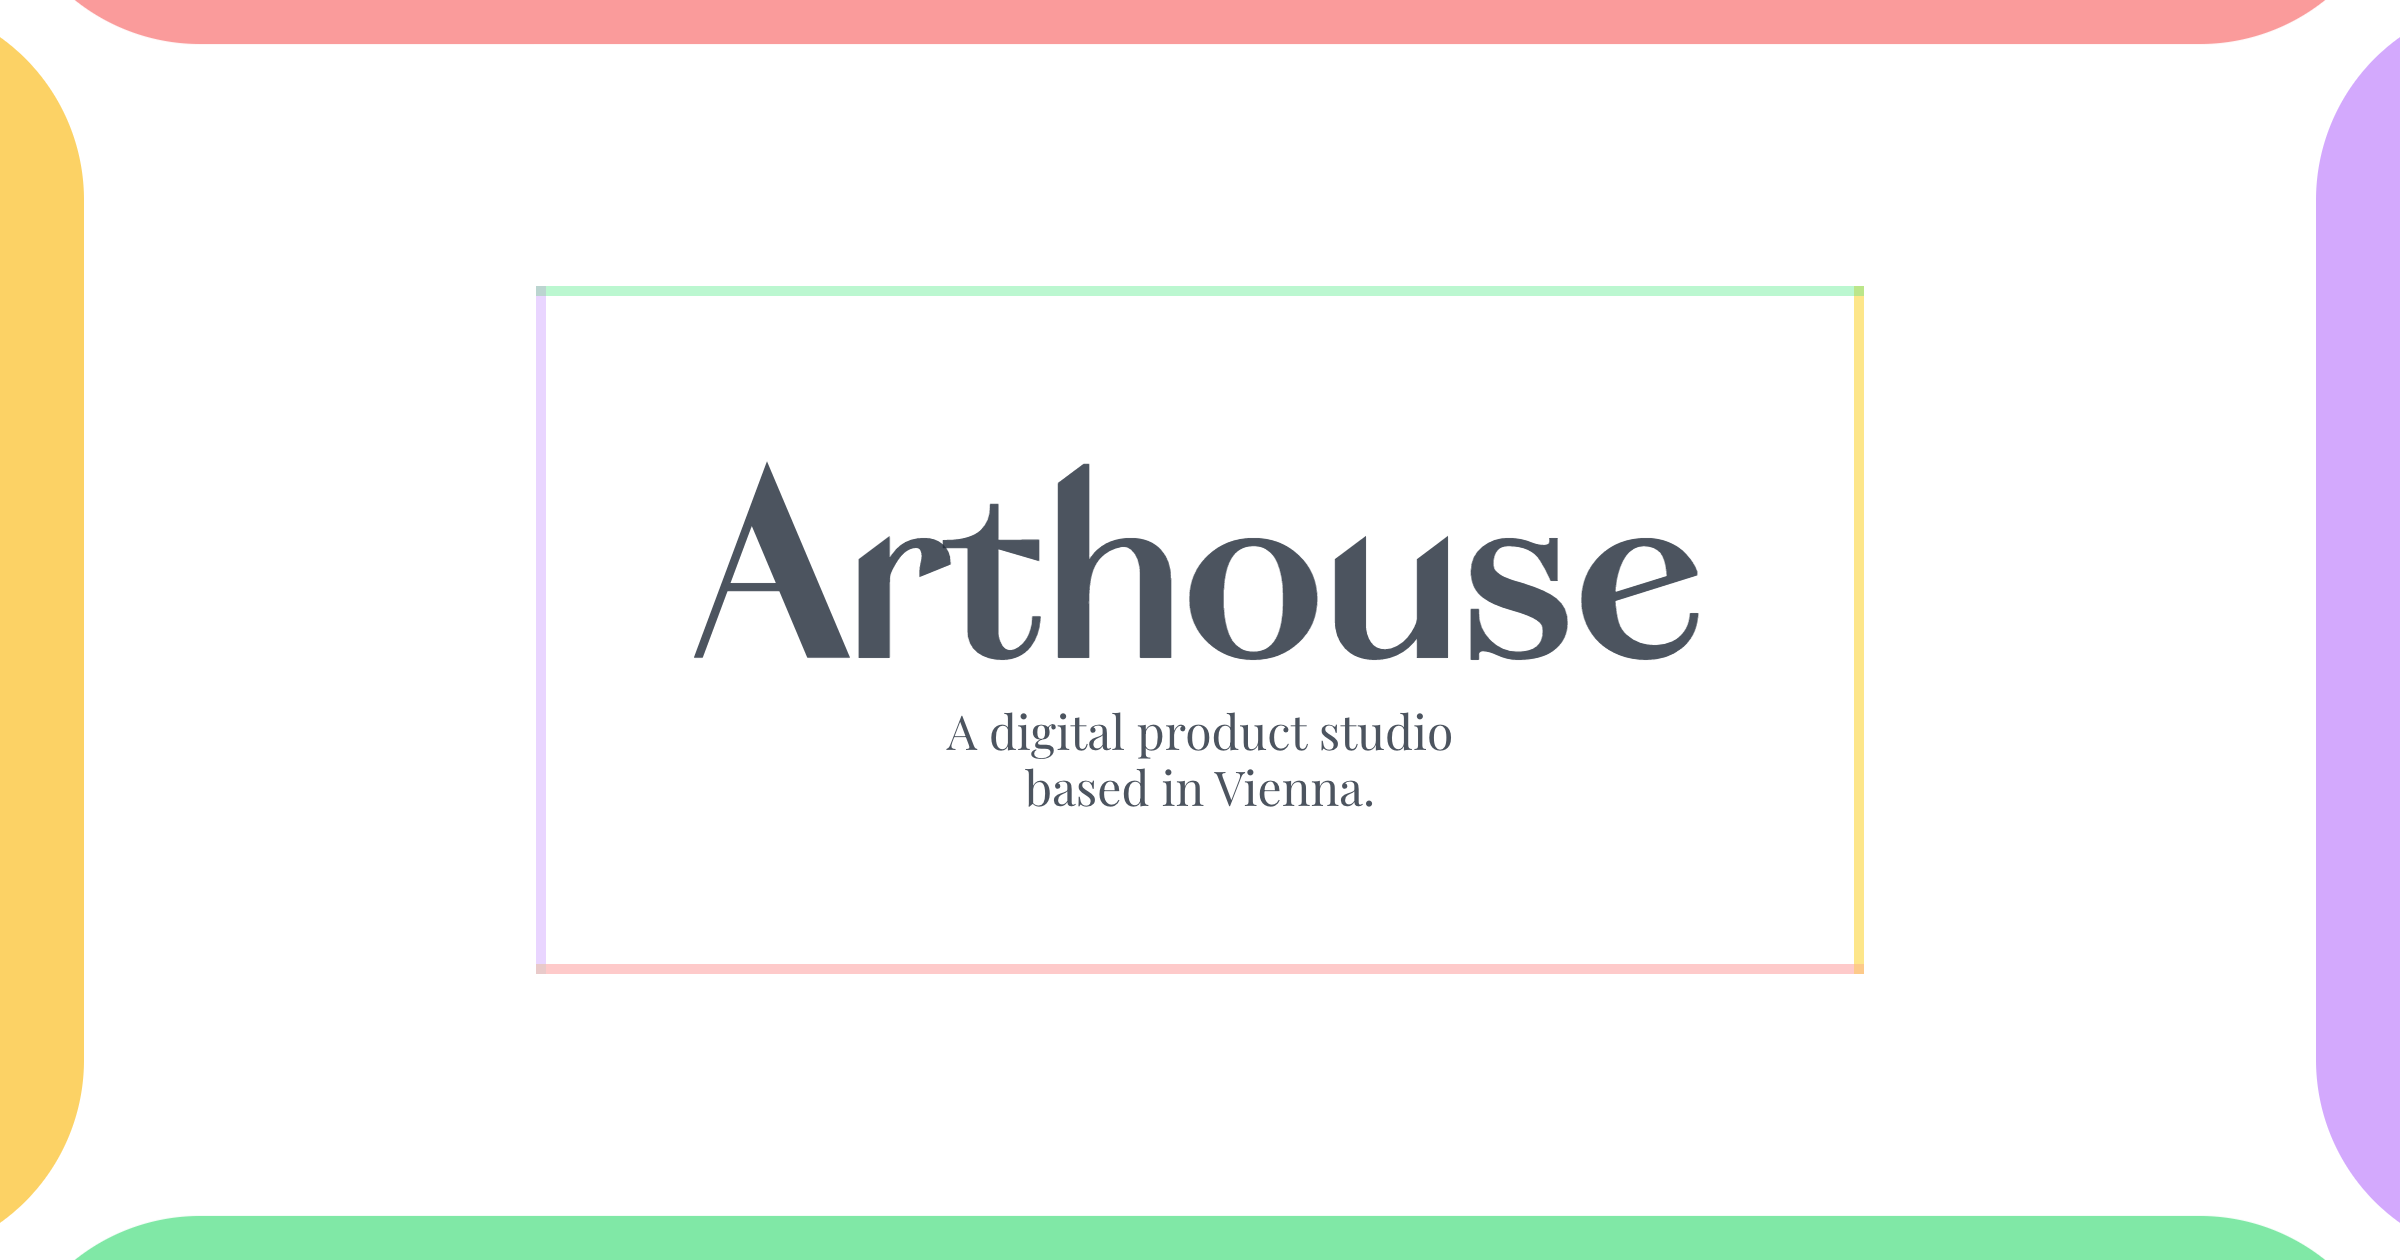
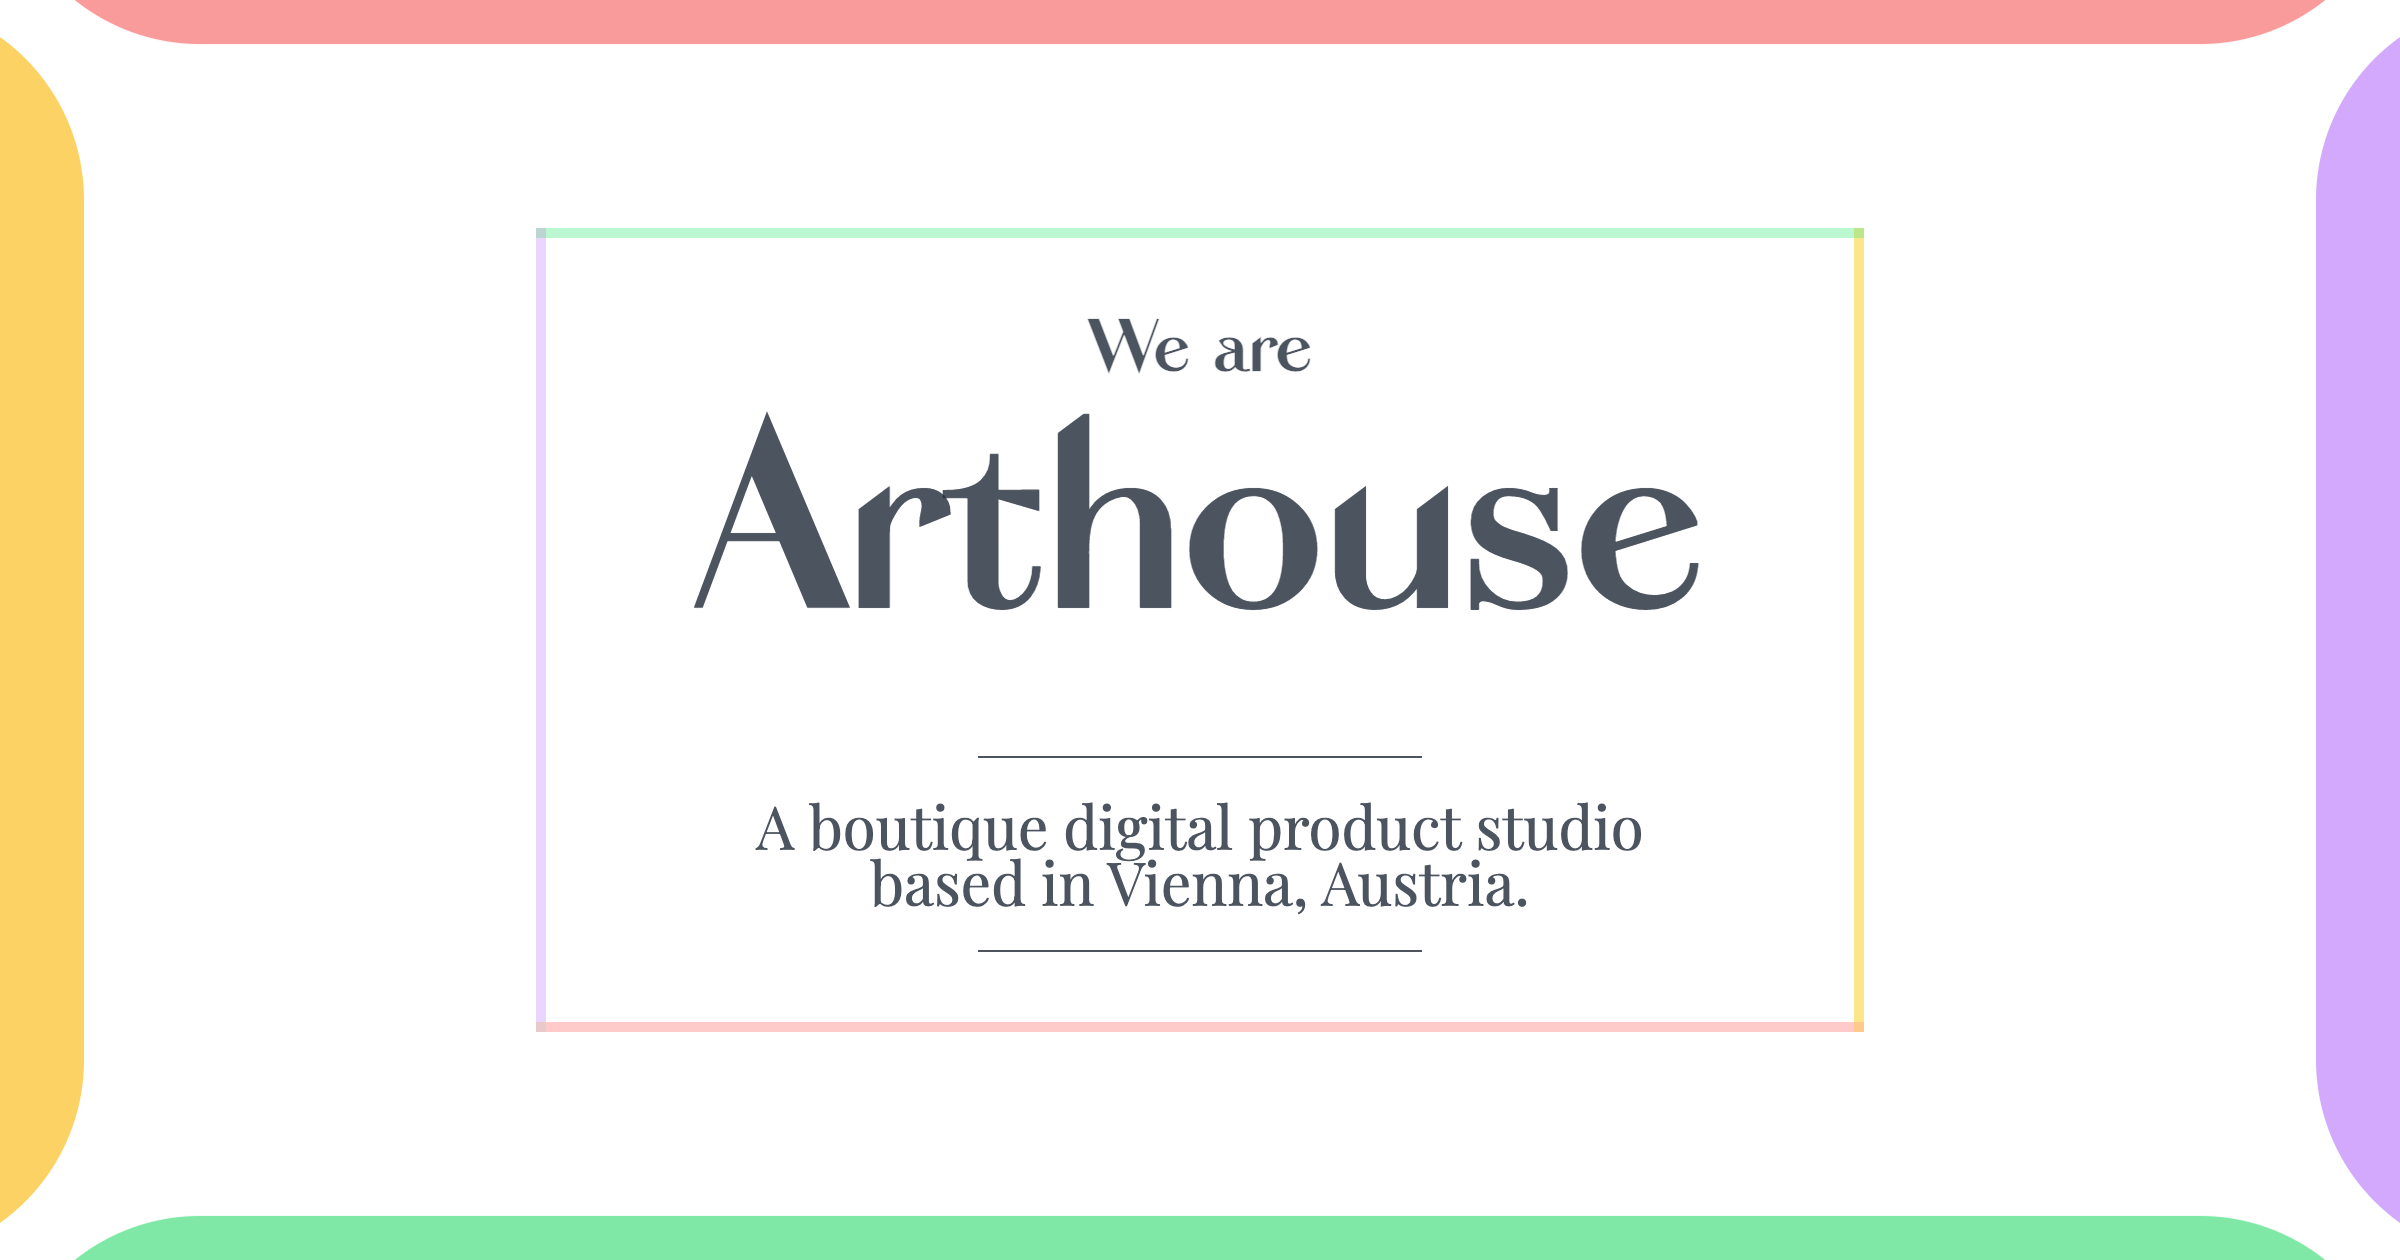
add basic readme + other small changes

Changed region(s): [[0.2188, 0.5571, 0.7812, 0.8357], [0.2812, 0.3405, 0.7188, 0.5262], [0.2188, 0.1548, 0.7812, 0.3095]]

diff --git a/src/app/coming-soon/page.tsx b/src/app/coming-soon/page.tsx
@@ -1,7 +1,8 @@
 "use client";
 
 import clsx from "clsx";
-import { AnimatePresence, motion } from "framer-motion";
+import { motion } from "framer-motion";
+import { GithubIcon, LinkedinIcon, TwitterIcon } from "lucide-react";
 import { useEffect, useLayoutEffect, useState } from "react";
 
 const variants = [
@@ -22,7 +23,7 @@ export default function ComingSoonPage() {
     if (current < variants.length - 1) {
       setTimeout(() => {
         setCurrent(current + 1);
-      }, 2000 + (current === 0 ? 3000 : 0));
+      }, 2000 + (current === 0 ? 1500 : 0));
     }
   }, [current]);
 
@@ -42,7 +43,7 @@ export default function ComingSoonPage() {
       <span className="transform-gpu mix-blend-color-burn bg-amber-400/70 rounded-[100px] gate-open-left" />
       <div
         className={clsx(
-          "max-w-[95%] mx-auto relative z-20 px-5 py-10 md:px-10 lg:p-20 rounded-lg text-center text-gray-800/80",
+          "max-w-[95%] mx-auto relative z-20 px-5 py-10 md:px-10 lg:p-20 rounded-lg text-center text-gray-800/80 flex flex-col justify-center items-center",
           showAll && "bg-white/80"
         )}
       >
@@ -74,17 +75,22 @@ export default function ComingSoonPage() {
           }}
           initial={{
             opacity: 0,
+            scale: 0.8,
             y: 10,
           }}
           animate={{
             opacity: 1,
+            scale: 1,
             y: 0,
           }}
           className="flex text-left flex-col items-center gap-1"
         >
-          <span className="font-semibold font-brand text-2xl md:text-4xl">
+          <motion.span
+            layout
+            className="font-semibold font-brand text-2xl md:text-4xl"
+          >
             We are
-          </span>
+          </motion.span>
           <motion.h1
             layout
             initial={{ opacity: 0, y: 25 }}
@@ -103,6 +109,7 @@ export default function ComingSoonPage() {
 
         {showAll && (
           <motion.div
+            layout
             className="mt-8"
             transition={{
               delay: 0.25,
@@ -135,6 +142,51 @@ export default function ComingSoonPage() {
               <span>Work with us!</span>
               <span className="absolute left-0 bottom-0 scale-x-0 will-change-transform transform-gpu origin-bottom-left group-active:scale-x-100 group-focus-visible:scale-x-100 group-hover:scale-x-100 transition-all duration-300 ease-in-out border-b-2 border-gray-800/80 w-full" />
             </a>
+
+            <ul className="flex gap-2 justify-center items-center mt-7">
+              <li className="relative">
+                <a
+                  href="https://twitter.com/madebyarthouse"
+                  rel="noopener noreferrer"
+                  target="_blank"
+                  className="p-2 z-10 rounded-full active:scale-95 overflow-clip group border border-[#00acee] block"
+                >
+                  <TwitterIcon
+                    size={20}
+                    className="z-30 relative transition-colors group-hover:text-white group-active:text-white group-focus-visible:text-white text-[#00acee]"
+                  />
+                  <span className="absolute inset-0 z-20 transition-all rounded-full scale-0 group-focus-visible:scale-100 group-hover:scale-100 group-active:scale-90 bg-[#00acee]" />
+                </a>
+              </li>
+              <li className="relative">
+                <a
+                  href="https://github.com/madebyarthouse"
+                  rel="noopener noreferrer"
+                  target="_blank"
+                  className="p-2 z-10 rounded-full active:scale-95 overflow-clip group border border-[#171515] block"
+                >
+                  <GithubIcon
+                    size={20}
+                    className="z-30 relative transition-colors group-hover:text-white group-active:text-white group-focus-visible:text-white text-[#171515]"
+                  />
+                  <span className="absolute inset-0 z-20 transition-all rounded-full scale-0 group-focus-visible:scale-100 group-hover:scale-100 group-active:scale-90 bg-[#171515]" />
+                </a>
+              </li>
+              <li className="relative">
+                <a
+                  href="https://linkedin.com/company/madebyarthouse"
+                  rel="noopener noreferrer"
+                  target="_blank"
+                  className="p-2 z-10 rounded-full active:scale-95 overflow-clip group border border-[#0072b1] block"
+                >
+                  <LinkedinIcon
+                    size={20}
+                    className="z-30 relative transition-colors group-hover:text-white group-active:text-white group-focus-visible:text-white text-[#0072b1]"
+                  />
+                  <span className="absolute inset-0 z-20 transition-all rounded-full scale-0 group-focus-visible:scale-100 group-hover:scale-100 group-active:scale-90 bg-[#0072b1]" />
+                </a>
+              </li>
+            </ul>
           </motion.div>
         )}
       </div>

diff --git a/src/app/layout.tsx b/src/app/layout.tsx
@@ -23,10 +23,10 @@ export const metadata: Metadata = {
     description: "A digital product studio based in Vienna.",
     images: [
       {
-        url: "https://arthouse.is/images/video-cover.png",
+        url: "https://arthouse.is/og.png",
         width: 1200,
         height: 630,
-        alt: "Arthouse",
+        alt: "We are Arthouse, a boutique digital product studio based in Vienna, Austria.",
       },
     ],
     locale: "en_US",

diff --git a/README.md b/README.md
@@ -1,34 +1,10 @@
-This is a [Next.js](https://nextjs.org/) project bootstrapped with [`create-next-app`](https://github.com/vercel/next.js/tree/canary/packages/create-next-app).
+# arthouse.is
+Homepage for Arthouse a boutique digital product studio based in Vienna, Austria.
 
-## Getting Started
+[Work with us!](mailto:christian.cito@arthouse.is?subject=Work%20with%20us!)
 
-First, run the development server:
-
-```bash
-npm run dev
-# or
-yarn dev
-```
-
-Open [http://localhost:3000](http://localhost:3000) with your browser to see the result.
-
-You can start editing the page by modifying `pages/index.tsx`. The page auto-updates as you edit the file.
-
-[API routes](https://nextjs.org/docs/api-routes/introduction) can be accessed on [http://localhost:3000/api/hello](http://localhost:3000/api/hello). This endpoint can be edited in `pages/api/hello.ts`.
-
-The `pages/api` directory is mapped to `/api/*`. Files in this directory are treated as [API routes](https://nextjs.org/docs/api-routes/introduction) instead of React pages.
-
-## Learn More
-
-To learn more about Next.js, take a look at the following resources:
-
-- [Next.js Documentation](https://nextjs.org/docs) - learn about Next.js features and API.
-- [Learn Next.js](https://nextjs.org/learn) - an interactive Next.js tutorial.
-
-You can check out [the Next.js GitHub repository](https://github.com/vercel/next.js/) - your feedback and contributions are welcome!
-
-## Deploy on Vercel
-
-The easiest way to deploy your Next.js app is to use the [Vercel Platform](https://vercel.com/new?utm_medium=default-template&filter=next.js&utm_source=create-next-app&utm_campaign=create-next-app-readme) from the creators of Next.js.
-
-Check out our [Next.js deployment documentation](https://nextjs.org/docs/deployment) for more details.
+## Stack
+- Next 13
+- Typescript
+- Tailwind CSS
+- Framer Motion
